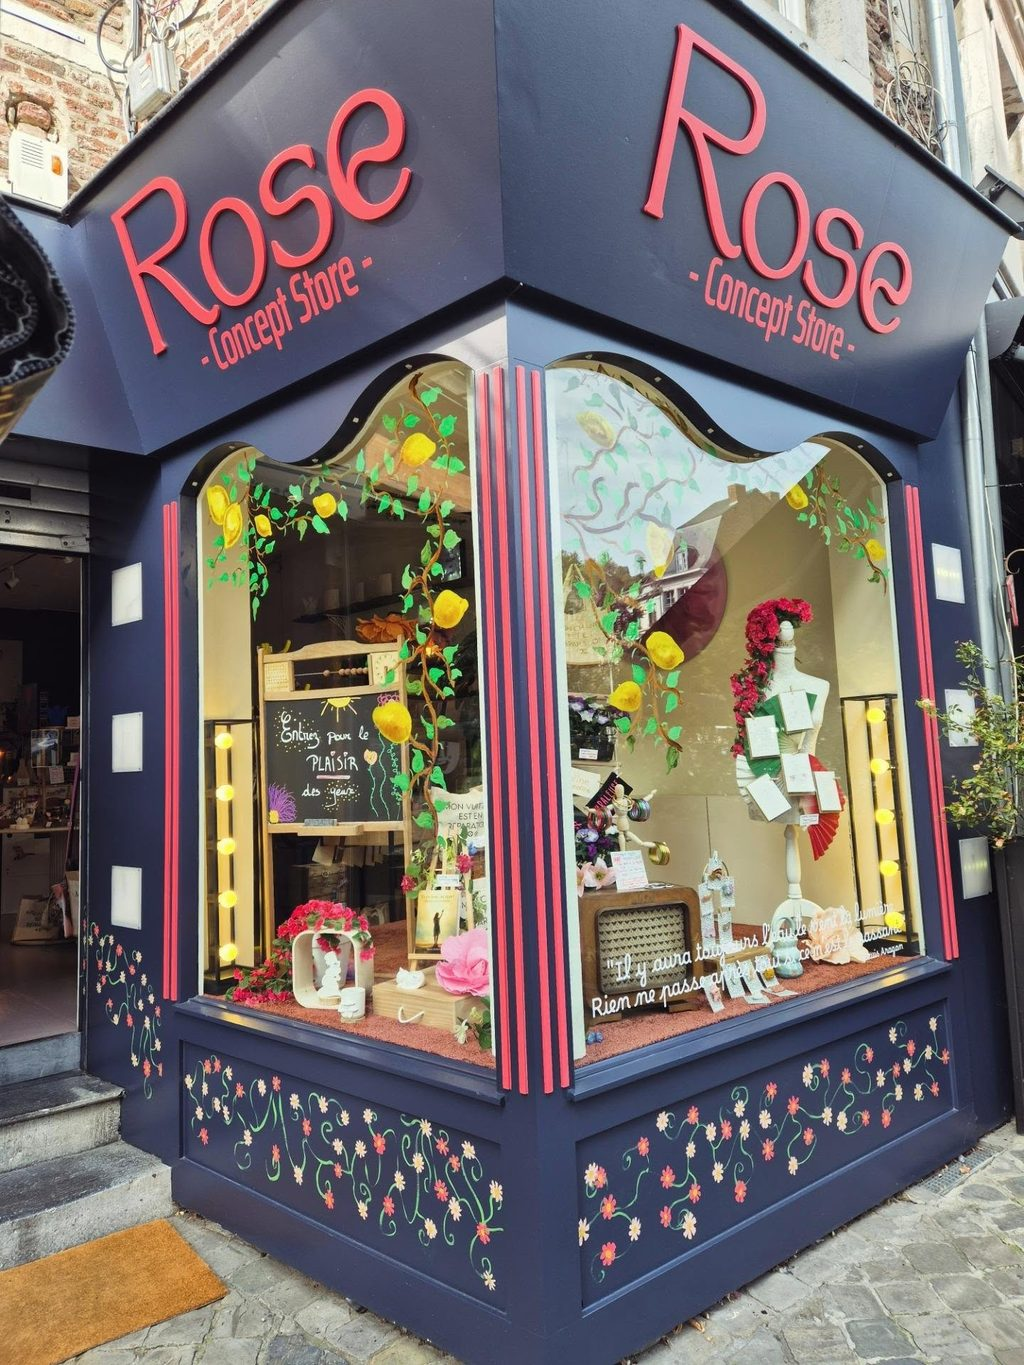
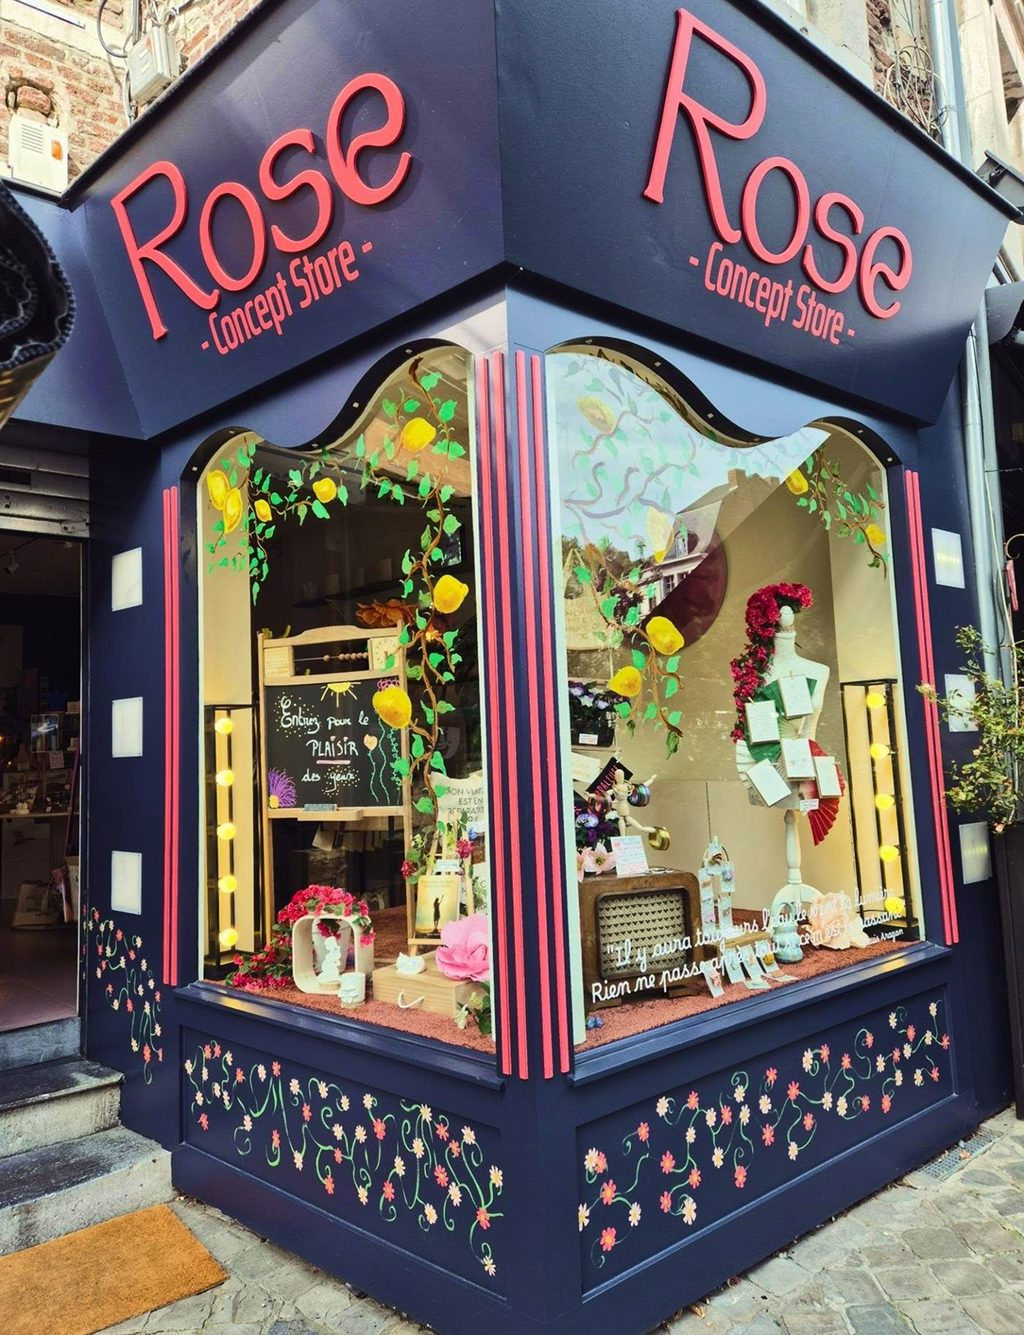
Aperçu privé : vitrine de Rose retouchée par Denis
Claude-Session: https://claude.ai/code/session_015D6ADMysfyFGhhzPM8EhjX

diff --git a/docs/apercu-ezx76smzgd/index.html b/docs/apercu-ezx76smzgd/index.html
@@ -794,7 +794,7 @@
       <div class="photos-frame float" style="--dur:10s;--float:-6px">
         <div class="photos-inner">
           <img src="../assets/v2/boucles-chat.jpg" alt="Des boucles d'oreilles têtes de chat nacrées sur anneaux dorés, tenues entre deux doigts" width="1024" height="1365" loading="lazy">
-          <img src="../assets/v2/vitrine-rose-enseigne.jpg" alt="La vitrine de Rose, Concept Store à Huy" width="1024" height="1365" loading="lazy">
+          <img src="../assets/v2/vitrine-rose-enseigne.jpg" alt="La vitrine de Rose, Concept Store à Huy" width="1024" height="1335" loading="lazy">
         </div>
       </div>
       <div class="contact" data-aimant="repousse">
